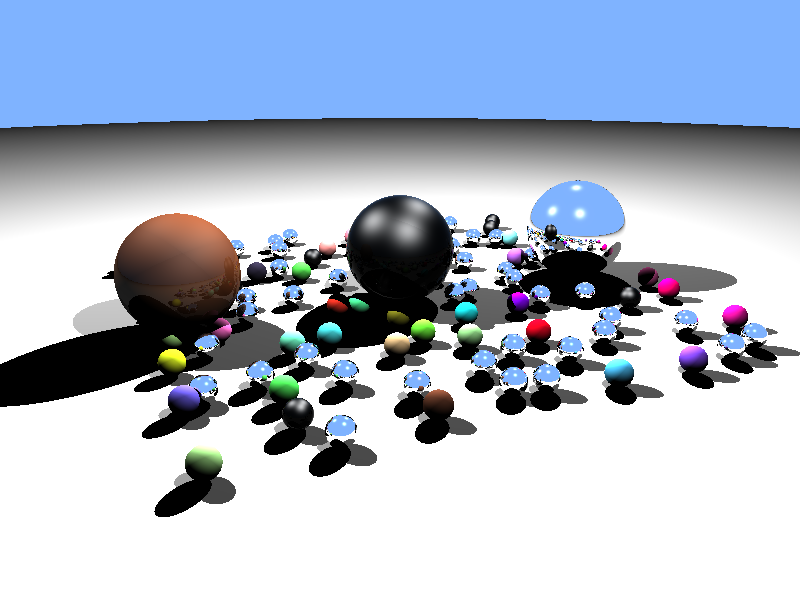
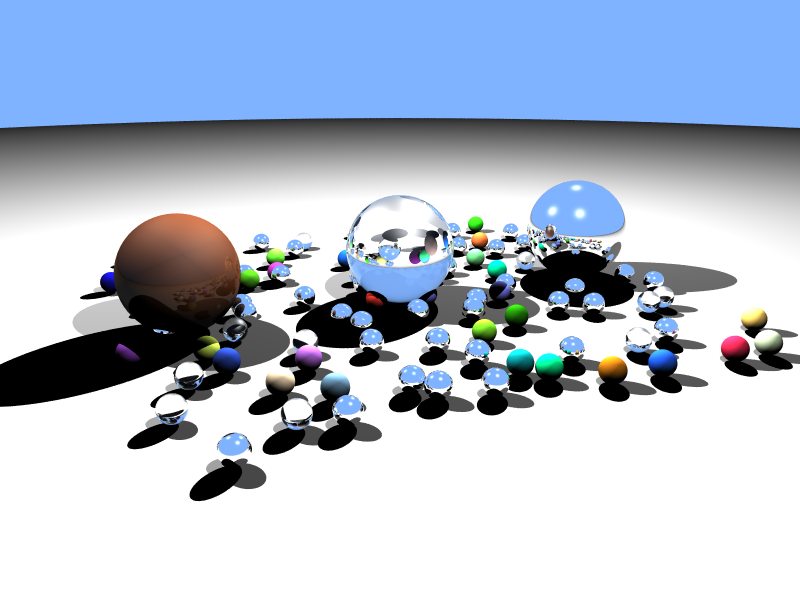
Antialiasing Done
Image of smooth balls also added.

Changed region(s): [[0.125, 0.33, 1.0, 0.87], [0.0938, 0.45, 0.1562, 0.51], [0.2188, 0.48, 0.25, 0.51]]

diff --git a/RayTracer_G10/main.cpp b/RayTracer_G10/main.cpp
@@ -83,6 +83,17 @@ int RES_X, RES_Y;
 
 int WindowHandle = 0;
 
+//NEW VARIABLES
+
+bool ANTIALIASING = true;
+bool DEPTHOFFIELD = false;
+
+int SPP = 4; // (sqrt) Sample Per Pixel - (sqrt) Number of rays called for each pixel
+
+bool SOFTSHADOWS = false;
+int Nmb_light = 4;
+int off_x, off_y; // Used to cause a more even distribution when using soft shadows + antialiasing
+
 
 
 /////////////////////////////////////////////////////////////////////// ERRORS
@@ -629,12 +640,6 @@ Color rayTracing(Ray ray, int depth, float ior_1)  //index of refraction of medi
 		else {
 			Kr = 1.0f;
 		}
-		/*else {
-			reflection = ray.direction - hit_norm * (ray.direction * hit_norm) * 2;
-			reflection = reflection.normalize();
-			Ray refl_ray = Ray(exact_hit_pnt, reflection);
-			color += rayTracing(refl_ray, depth + 1, ior_1) * mat->GetReflection() * Kr;
-		}*/
 	}
 
 	if (mat->GetReflection() > 0) {
@@ -668,15 +673,32 @@ void renderScene()
 			Color color;
 
 			Vector pixel;  //viewport coordinates
-			pixel.x = x + 0.5f;
-			pixel.y = y + 0.5f;
 
-			/*YOUR 2 FUNTIONS:*/ //I Think it is working as it should?
-			Ray ray = scene->GetCamera()->PrimaryRay(pixel);   //function from camera.h
-			
-			color = rayTracing(ray, 1, 1.0).clamp();
+			if (!ANTIALIASING) {
+				pixel.x = x + 0.5f;
+				pixel.y = y + 0.5f;
 
-			//color = scene->GetBackgroundColor(); //TO CHANGE - just for the template
+				Ray ray = scene->GetCamera()->PrimaryRay(pixel);   //function from camera.h
+				color = rayTracing(ray, 1, 1.0).clamp();
+			}
+			else {
+				for (int p = 0; p < SPP; p++) {
+					for (int q = 0; q < SPP; q++) {
+						off_x = p;
+						off_y = q;
+						pixel.x = x + (p + rand_float()) / SPP;
+						pixel.y = y + (q + rand_float()) / SPP;
+
+						Ray* ray = nullptr;
+
+						ray = &scene->GetCamera()->PrimaryRay(pixel);
+
+						color += rayTracing(*ray, 1, 1.0).clamp();
+					}
+				}
+				color = color / (SPP * SPP);
+
+			}
 
 			img_Data[counter++] = u8fromfloat((float)color.r());
 			img_Data[counter++] = u8fromfloat((float)color.g());
